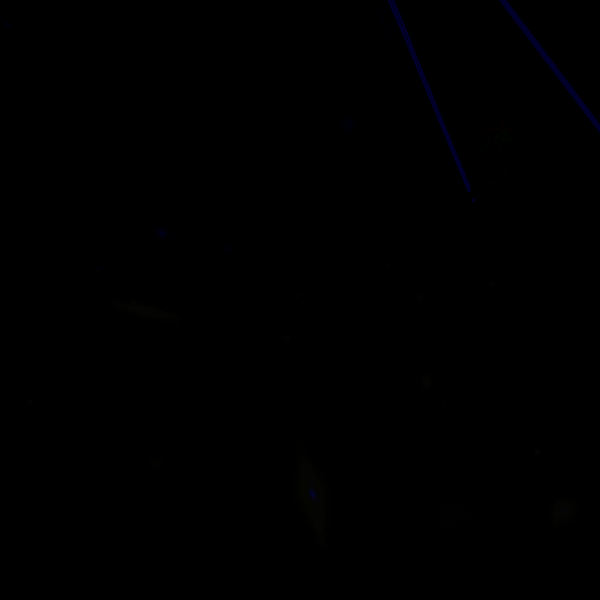
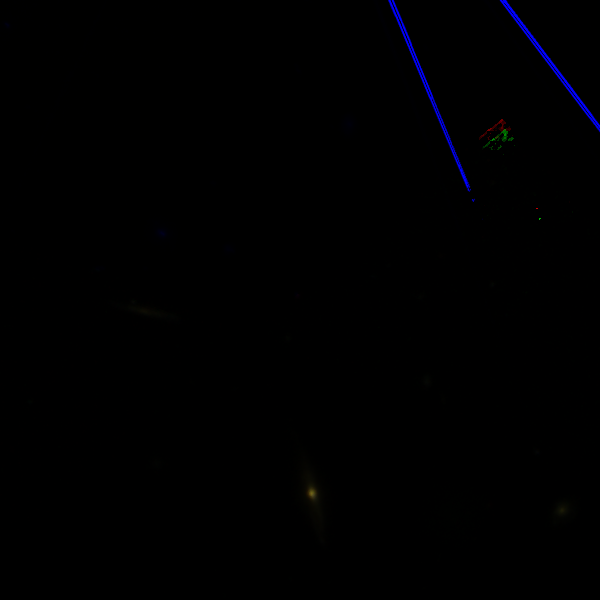
sampled some prepared rgb images.

diff --git a/rgb_filter_images.py b/rgb_filter_images.py
@@ -105,7 +105,7 @@ def make_rgb_from_matched_catalog(red_dir, green_dir, blue_dir, output_dir,
         galaxy_id = matched_catalog[id_col][idx]
         
         # Construct file paths for each filter
-        # Note: Adjust the filename pattern to match your actual naming convention
+        # Note: Adjust the filename pattern to match file's actual naming convention
         red_file = os.path.join(red_dir, f"candels.{galaxy_id}.f160w.fits")
         green_file = os.path.join(green_dir, f"candels.{galaxy_id}.f125w.fits")
         blue_file = os.path.join(blue_dir, f"candels.{galaxy_id}.f606w.fits")
@@ -127,20 +127,20 @@ def make_rgb_from_matched_catalog(red_dir, green_dir, blue_dir, output_dir,
         green_data = np.nan_to_num(green_data, nan=0.0, posinf=0.0, neginf=0.0)
         blue_data = np.nan_to_num(blue_data, nan=0.0, posinf=0.0, neginf=0.0)
         
-        # Clip negative values to zero (flux should be non-negative)
-        red_data = np.maximum(red_data, 0)
-        green_data = np.maximum(green_data, 0)
-        blue_data = np.maximum(blue_data, 0)
+        # Clip negative values to zero (flux should be non-negative). Uncomment this after checking the effect on the data
+        # red_data = np.maximum(red_data, 0)
+        # green_data = np.maximum(green_data, 0)
+        # blue_data = np.maximum(blue_data, 0)
         
         # Optional: Clip extreme outliers to prevent scaling issues
         # This removes the brightest 0.5% of pixels
-        vmax_r = np.percentile(red_data, 99.5)
-        vmax_g = np.percentile(green_data, 99.5)
-        vmax_b = np.percentile(blue_data, 99.5)
+        # vmax_r = np.percentile(red_data, 99.5)
+        # vmax_g = np.percentile(green_data, 99.5)
+        # vmax_b = np.percentile(blue_data, 99.5)
         
-        red_data = np.clip(red_data, 0, vmax_r)
-        green_data = np.clip(green_data, 0, vmax_g)
-        blue_data = np.clip(blue_data, 0, vmax_b)
+        # red_data = np.clip(red_data, 0, vmax_r)
+        # green_data = np.clip(green_data, 0, vmax_g)
+        # blue_data = np.clip(blue_data, 0, vmax_b)
         
         # Make RGB using Lupton's asinh scaling
         rgb_array = make_lupton_rgb(red_data, green_data, blue_data, 
@@ -209,10 +209,10 @@ def test_small_sample(catalog, sample_size=10):
 
 
 if __name__ == "__main__":
-    # Set up for testing the code:
+    # Set up for testing the code for files stored on the SMB server:
     # First connect to colby smb serve and login so that the drive mounts to /Volumes/Research/
 
-    BASE_MOUNT = "/Volumes/Research/emcgrath/Research/CANDELS_data/mosaics/gds/"
+    BASE_MOUNT = "/Volumes/Research/emcgrath/Research/CANDELS_data/mosaics/gds/" # This is readable by Python
 
     # Input data paths
     MAIN_CATALOG_PATH = "/Users/holyphysics/Desktop/Galaxy_Classification/gds_merged_v1.1.fits"
